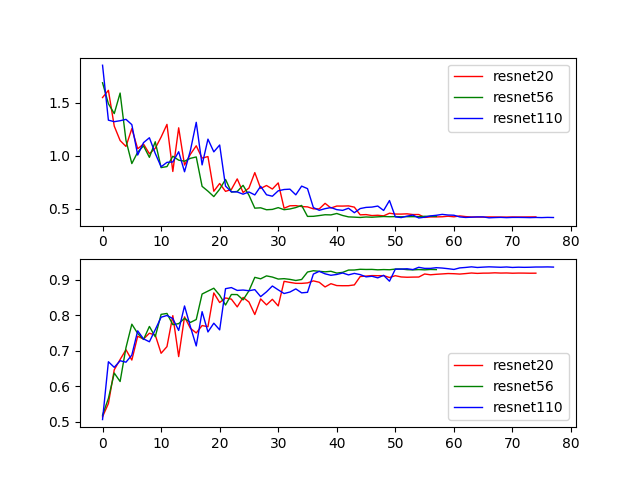
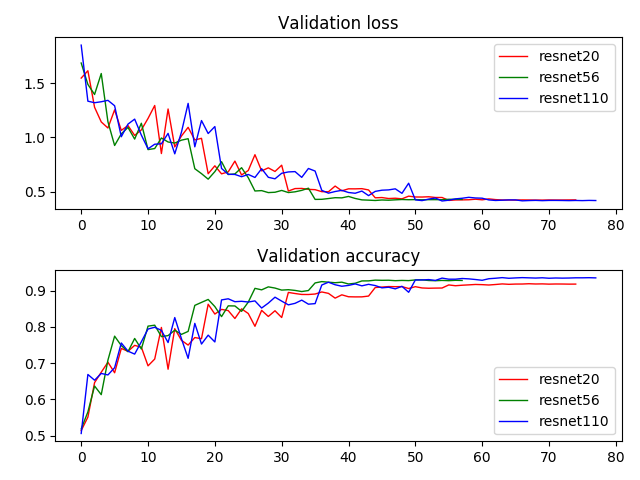
add titles for subplots

diff --git a/plot.py b/plot.py
@@ -37,10 +37,13 @@ def plot_csv(filepath, compare=False, color='r'):
 
     # display losses
     plt.subplot(211)
+    plt.tight_layout()
     if not compare:
+        plt.title("Training vs validation loss")
         plt.plot(epochs, train_losses, 'b', label='train loss', linewidth=1)
         plt.plot(epochs, val_losses, 'r', label='val loss', linewidth=1)
     else:
+        plt.title("Validation loss")
         plt.plot(epochs, val_losses, color, label=line_label, linewidth=1)
 
     plt.legend(loc='best')
@@ -48,9 +51,11 @@ def plot_csv(filepath, compare=False, color='r'):
     # display accuracy
     plt.subplot(212)
     if not compare:
+        plt.title("Training vs validation accuracy")
         plt.plot(epochs, train_accs, 'b', label='train acc', linewidth=1)
         plt.plot(epochs, val_accs, 'r', label='val acc', linewidth=1)
     else:
+        plt.title("Validation accuracy")
         plt.plot(epochs, val_accs, color, label=line_label, linewidth=1)
 
     plt.legend(loc='best')
